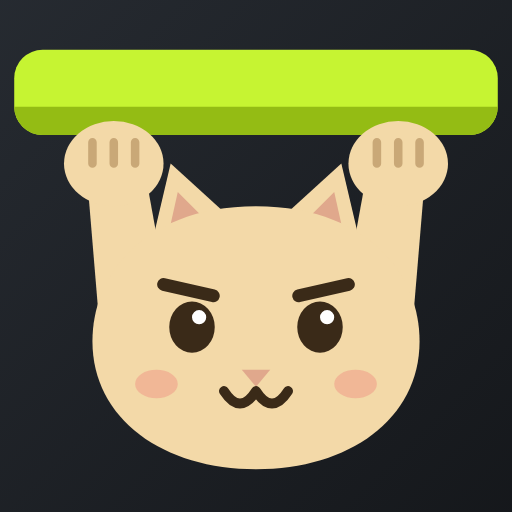
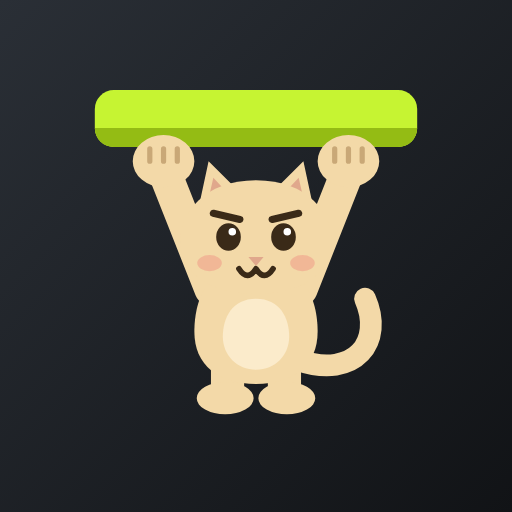
feat: 앱 아이콘을 고양이 전신으로(v0.1.1)
천장을 든 발과 머리만 보이던 아이콘을, 발에서 꼬리까지 전신이 천장을 받치는
모습으로 다시 그렸다. Play 등록정보용 512px 도 같은 그림으로 바꾼다.

diff --git a/CLAUDE.md b/CLAUDE.md
@@ -262,8 +262,9 @@ which a run cannot open without ending. Nothing pauses for it (the ceiling never
 says so while a set is on. The run reads the settings live, so a change is heard at once.
 
 **The cat starts out as 지수**, by the owner's decision (2026-11-06): `cat_default_name`, which a blank
-stored name reads as, and what the name field starts with. **The launcher icon is that cat holding the
-ceiling up over its head** on the ring look's charcoal, the ceiling in its lime — the whole app in one picture; the Play listing's
+stored name reads as, and what the name field starts with. **The launcher icon is that cat, the whole of it
+from the paws on the ceiling to its feet and tail, holding the ceiling up over its head** (2026-11-10, by
+the owner's request: the paws and a head alone read as strange) on the ring look's charcoal, the ceiling in its lime — the whole app in one picture; the Play listing's
 512 px copy is `docs/store-assets/icon-512.png`.
 
 **The cat's things are gifts it finds, and beside them a shop for 츄르**, by the owner's decisions.
